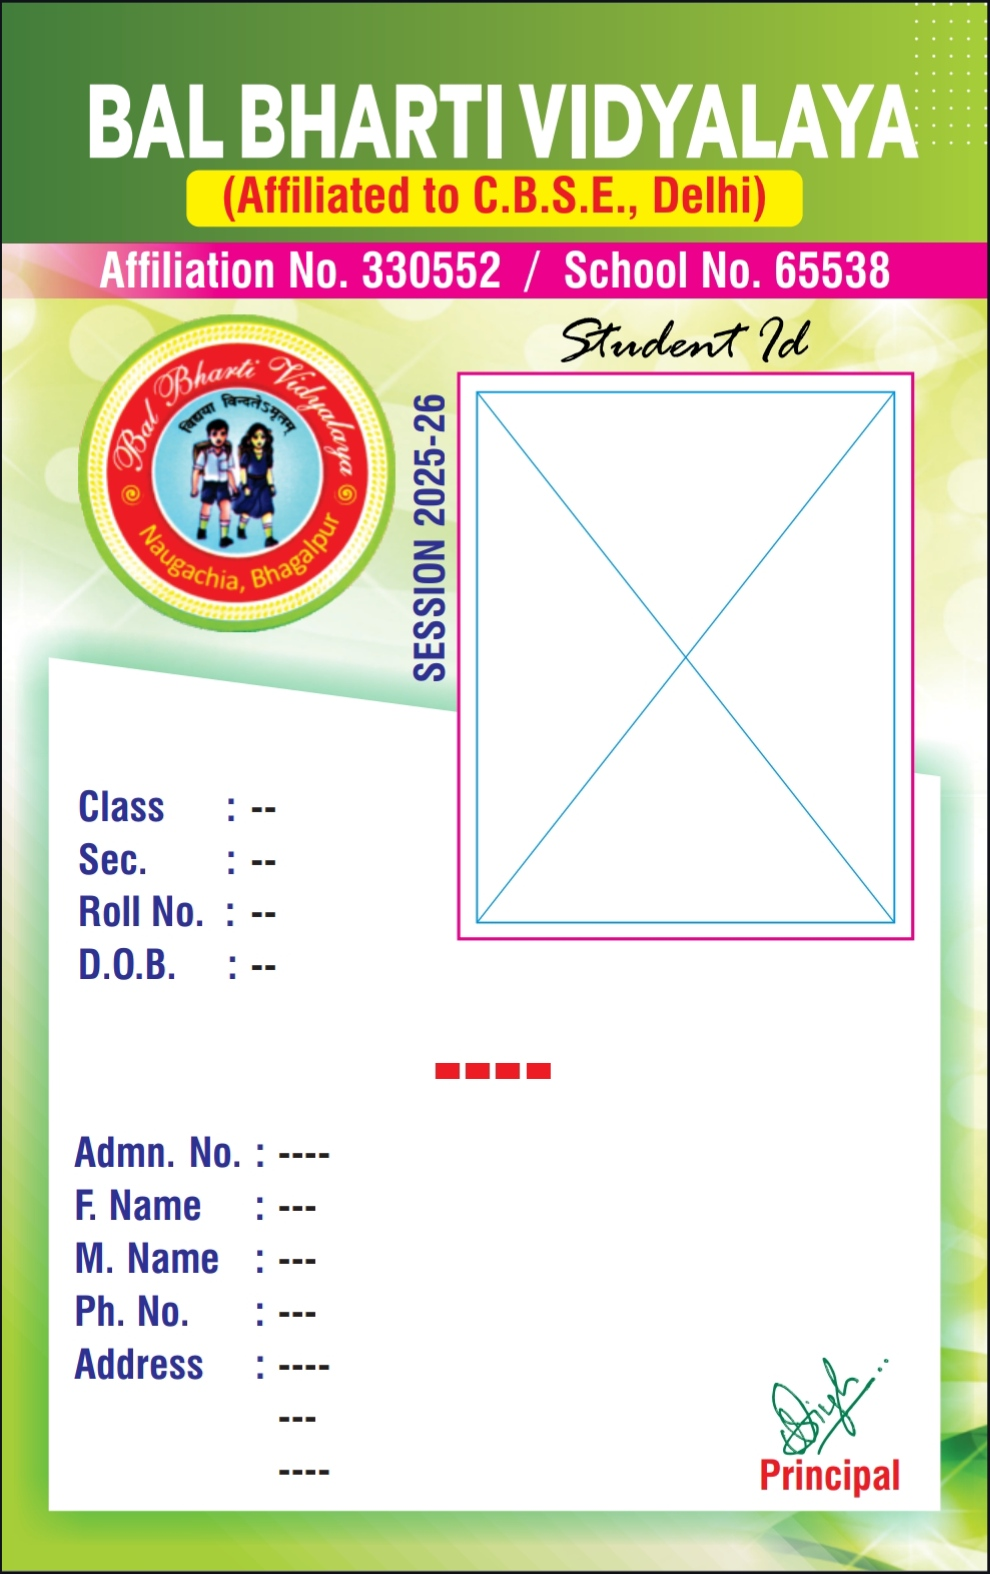
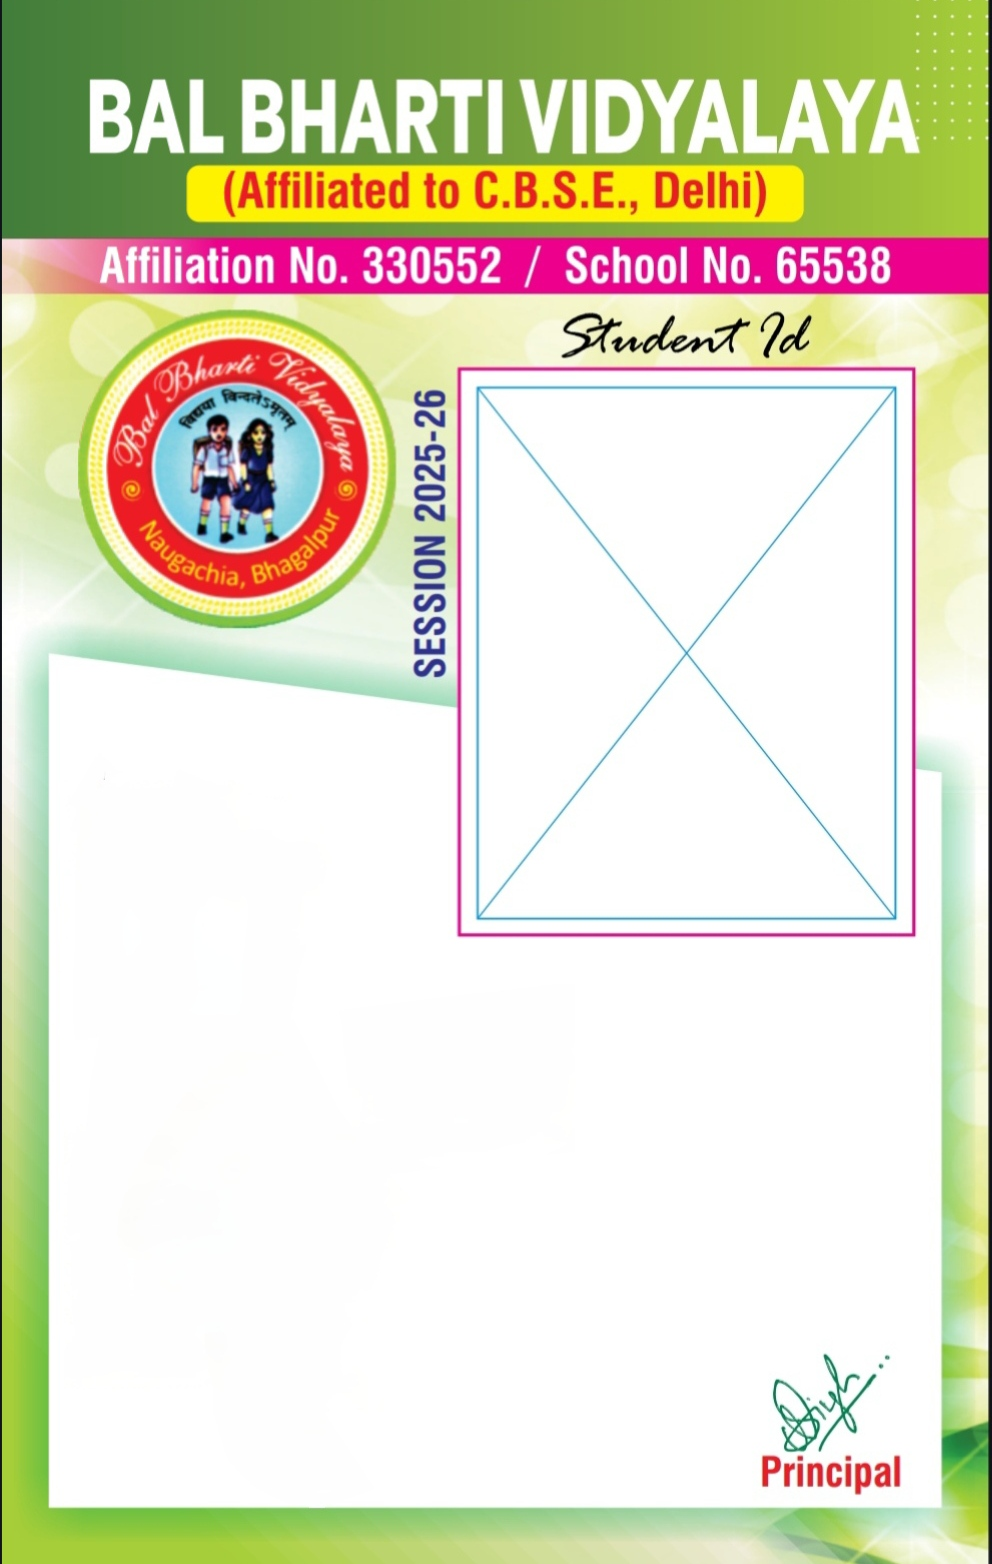
Set Bal Bharti School Template

diff --git a/src/components/templates/BalBhartiSchool.tsx b/src/components/templates/BalBhartiSchool.tsx
@@ -36,7 +36,7 @@ export default function Template7({
                 <img
                     src={image}
                     alt="student"
-                    className="absolute top-[102px] left-[85px] w-[98px] h-[120px] object-cover rounded-md border"
+                    className="absolute top-[109.9px] left-[130px] w-[115px] h-[146.5px] object-cover"
                 />
             )}
 
@@ -44,31 +44,34 @@ export default function Template7({
                 <img
                     src={logo}
                     alt="logo"
-                    className="absolute top-[140px] left-[20px] w-[60px] h-[60px] object-contain"
+                    className="absolute top-[94.5px] left-[26px] w-[74px] h-[74px] object-contain"
                 />
             )}
 
-            <div className="absolute top-[229px] left-1/2 -translate-x-1/2 w-[200px] text-center text-white font-bold text-sm py-1 rounded">
+            <div className="absolute top-[270px] left-[20px] text-[13px] font-bold text-indigo-900 leading-tight space-y-[2px]" style={{ fontFamily: "Arial Narrow, Arial, sans-serif" }}>
+                <p className="relative top-[-54px] right-[2px]">Class : <span className="text-black">{student.class || "-"}</span> </p>
+                <p className="relative top-[-58px] right-[2px]">Sec : {student.sec || "-"}</p>
+                <p className="relative top-[-61px] right-[2px]">Roll No : {student.roll || "-"}</p>
+                <p className="relative top-[-65px] right-[2px]">D.O.B : {formatDate(student.dob) || "-"}</p>
+            </div>
+
+            <div className="absolute top-[276px] left-1/2 -translate-x-1/2 w-[220px] text-center text-black font-bold text-[18px] py-1 rounded">
                 {student.name || "----"}
             </div>
 
-            <div className="absolute top-[270px] left-[20px] text-[13px] font-bold text-blue-800 leading-tight space-y-[2px]">
-                <p>Class : {student.class || "-"}</p>
-                <p>D.O.B : {formatDate(student.dob) || "-"}</p>
-                <p>F. Name : {student.father || "-"}</p>
-                <p>Mobile : {student.phone || "-"}</p>
-                <p>Address : {student.address || "-"}</p>
-            </div>
-
-            <div className="absolute top-[290px] right-[20px] text-[13px] font-bold text-blue-800">
-                <p>Roll No : {student.roll || "-"}</p>
+            <div className="absolute top-[290px] left-[20px] text-[13px] font-bold text-indigo-900" style={{fontFamily:"Arial Narrow, Arial, sans serif"}}>
+                <p className="relative bottom-[-20.5px] right-[2.9px]">Admn. No : {student.admn || "-"}</p>
+                <p className="relative bottom-[-16.5px] right-[2.9px]">F. Name : {student.father || "-"}</p>
+                <p className="relative bottom-[-11.5px] right-[2.9px]">M. Name : {student.mother || "-"}</p>
+                <p className="relative bottom-[-7px] right-[2.9px]">Ph. No. : {student.phone || "-"}</p>
+                <p className="relative bottom-[-2px] right-[2.9px] leading-tight">Address : {student.address || "-"}</p>
             </div>
 
             {signature && (
                 <img
                     src={signature}
                     alt="signature"
-                    className="absolute bottom-[20px] right-[20px] w-[80px]"
+                    className="absolute bottom-[30px] right-[20px] w-[60px]"
                 />
             )}
 
